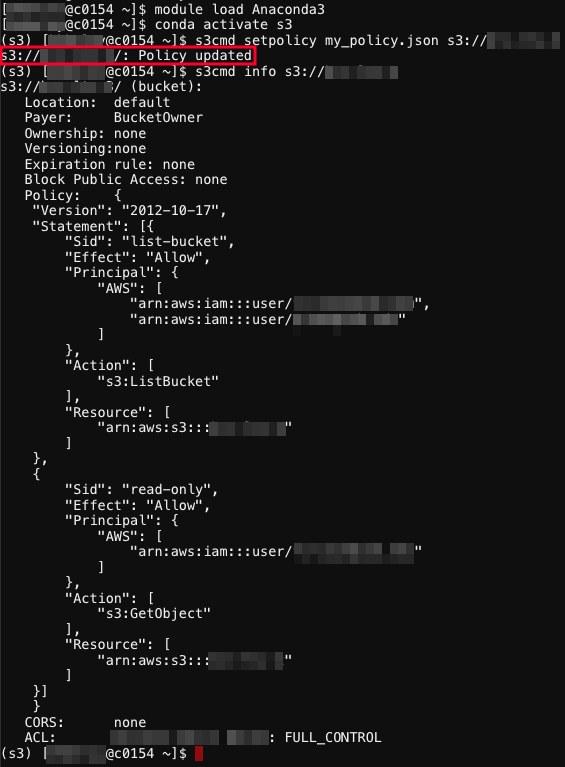
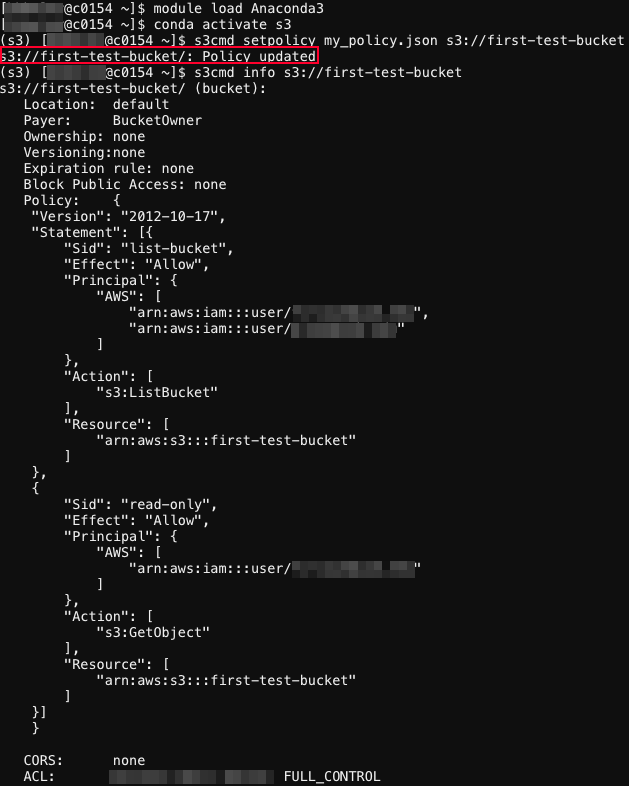
fix typo, figures and formatting

diff --git a/docs/data_management/lts/tutorial/individual_lts_tutorial.md b/docs/data_management/lts/tutorial/individual_lts_tutorial.md
@@ -1,7 +1,7 @@
 ---
 toc_depth: 3
 ---
-# Basic Workflow with Individual LST and s3cmd
+# Basic Workflow with Individual LTS and s3cmd
 
 In this tutorial, we will guide you through using `s3cmd` on the Cheaha system to effectively manage and interact with your individual LTS account. We will cover the installation and configuration of `s3cmd`, and demonstrate essential operations, including creating buckets, listing, copying, downloading, and deleting [buckets and objects](../index.md/#terminology) in your LTS account. In addition, we will show you how to set and manage read and write access for other accounts to your LTS buckets and objects.
 
@@ -9,9 +9,9 @@ In this tutorial, we will guide you through using `s3cmd` on the Cheaha system t
 
 ### Install s3cmd within Anaconda Environment on Cheaha
 
-To interact with LTS using S3, you need the `s3cmd` tool installed. It is recommended to install it using `pip` within an Anaconda environment on Cheaha. Please avoid using `conda install s3cmd`, as that version may not work as expected. Instead, follow the below steps to install `s3cmd` using `pip`.
+To interact with LTS using S3, you need the `s3cmd` tool installed. It is recommended to install it using `pip` within an Anaconda environment on Cheaha. Please avoid using `conda install s3cmd`, as that version will not work as expected. Instead, follow the below steps to install `s3cmd` using `pip`.
 
-First, access our interactive Open OnDemand (OOD) portal at [https://rc.uab.edu](https://rc.uab.edu) and create a job  on Cheaha using one of our interactive applications. For guidance, refer to our tutorial on [installing and setting anaconda environment](../../../cheaha/tutorial/pytorch_tensorflow.md/#installing-anaconda-environments-using-terminal).
+First, access our interactive Open OnDemand (OOD) portal at [https://rc.uab.edu](https://rc.uab.edu) and create a job on Cheaha using one of our interactive applications. For guidance, refer to our tutorial on [installing and setting anaconda environment](../../../cheaha/tutorial/pytorch_tensorflow.md/#installing-anaconda-environments-using-terminal).
 
 Once your interactive apps session is launched, open the terminal as described in [step 5 of the Anaconda tutorial page](../../../cheaha/tutorial/pytorch_tensorflow.md/#installing-anaconda-environments-using-terminal) and run the below commands.
 
@@ -50,53 +50,56 @@ Once the configuration is complete, `s3cmd` will generate a `.s3cfg` file in you
 
 ### Creating Buckets
 
-Long Term Storage (LTS) services like Amazon S3 uses a specific data organization model based on **buckets** and **objects**. Think of buckets as folders that contain individual pieces of data called objects. Each bucket has a unique name. We have documentation about basic terminology on s3 storage system [here](../index.md/#terminology) and a naming guide for LTS buckets [here](../index.md/#avoiding-duplicate-names-for-buckets).
+Long Term Storage (LTS) services like Amazon S3 uses a specific data organization model based on **buckets** and **objects**. Think of buckets as folders that contain individual pieces of data called objects. Each bucket has a unique name. We have documentation about basic terminology on s3 storage system [here](../index.md/#terminology).
 
 Once you have complete `s3cmd` configuration, you can create new buckets in your individual LTS storage. To create a bucket use a `mb`(make bucket) command:
 
 ```bash
-s3cmd mb s3://your_bucket_name
+s3cmd mb s3://your-bucket-name
 ```
 
-Please replace `your_bucket_name` with your desired name. This command creates a new bucket that you named `your_bucket_name` in your LTS storage using the currently configured `s3cmd` profile.
-
-The image below shows the LTS bucket created successfully after running the command.
+Please replace `your-bucket-name` with your desired name. This command creates a new bucket that you named `your-bucket-name` in your LTS storage using the currently configured `s3cmd` profile. For example, the image below shows an LTS bucket named `first-test-bucket` that was created successfully after running the command `s3cmd mb s3://first-test-bucket`.
 
 ![image-bucket](../images/create-bucket.png)
+
+Bucket names must be unique across all LTS, we have detailed information about bucket naming [here](../index.md/#avoiding-duplicate-names-for-buckets). If you try to create a bucket with `s3cmd mb` and the name is taken in another namespace, you will see an `S3 error: 409 (BucketAlreadyExists)`. However, if the name is already in use within your own namespace, `s3cmd mb` might not show an error and could falsely indicate that the bucket is created. Even if no error appears, the bucket won’t actually be created if the name is already taken. To avoid confusion and ensure you create a unique bucket within your own namespace, you can use `s3cmd ls` to check existing buckets and choose a different name.
 
 ### Managing Buckets
 
 To manage a bucket, various commands can be used. Below are some common `s3cmd` commands to interact with your LTS bucket and its objects:
 
-- To **lists all buckets** accessible with your current `s3cmd` profile, use command: `s3cmd ls`.
-- To **lists all files in a bucket** accessible with your current `s3cmd` profile, use command: `s3cmd ls s3://your_bucket_name`.
-- To **upload a file**  named `file.txt` to a bucket, use a command: `s3cmd put file.txt s3://your_bucket_name/`.
-- To **download a file** a file named `file.txt` from a bucket, use a command:`s3cmd get s3://your_bucket_name/file.txt`.
-- To **delete/remove** a bucket, use command: `s3cmd rb s3://your_bucket_name`.
-
-You can find a variety of `s3cmd` commands in our documentation at [here](../../lts/interfaces.md/#s3cmd-commands) and on the [S3tools website](https://s3tools.org/usage). For quick reference, you can also use the `s3cmd --help` command to view available options directly in your terminal.
-
-If you are continuing in the same session with your **conda environment already activated**, you can directly use the `s3cmd` commands. If you are starting a new session or returning at a later date, make sure to load the Anaconda module and activate your conda environment before using `s3cmd`.
+- To **list all buckets** with your current `s3cmd` profile, use command: `s3cmd ls`.
+- To **list all objects in a bucket** with your current `s3cmd` profile, use command: `s3cmd ls s3://your-bucket-name`.
+- To **upload a file**  named `file.txt` to a bucket, use a command: `s3cmd put file.txt s3://your-bucket-name/`.
+- To **download an object** named `file.txt` from a bucket, use a command:`s3cmd get s3://your-bucket-name/file.txt`.
+- To **delete/remove** an object, use command: `s3cmd del s3://your-bucket-name/your-object-name`.
+- To **delete/remove** a bucket, use command: `s3cmd rb s3://your-bucket-name`.
 
 <!-- markdownlint-disable MD046 -->
 !!! Note
 
-    An S3 bucket cannot be deleted unless it is completely empty. If the bucket contains any objects, `s3cmd` will return an error, like `S3 error: 409 (BucketNotEmpty)` when you attempt to delete it. To remove all objects within the bucket, use: `s3cmd del -r s3://your_bucket_name`. You can then remove the bucket itself with: `s3cmd rb s3://your_bucket_name`.
+    An S3 bucket cannot be deleted unless it is completely empty. If the bucket contains any objects, `s3cmd rb` will report an error, like `S3 error: 409 (BucketNotEmpty)` when you attempt to delete it. To remove all objects within the bucket, use: `s3cmd del -r s3://your-bucket-name --force`. You can then remove the bucket itself with: `s3cmd rb s3://your-bucket-name`.
 <!-- markdownlint-disable MD046 -->
 
 <!-- markdownlint-disable MD046 -->
 !!! danger
 
-    Be cautious when deleting buckets, as this action is permanent and will remove all data within the bucket. Once data is deleted from LTS, it cannot be recovered.
+    Deleting objects and buckets cannot be undone. Once the delete command is entered, any data is lost permanently and cannot be restored.
 <!-- markdownlint-enable MD046 -->
+
+You can find a variety of `s3cmd` commands in our documentation at [here](../../lts/interfaces.md/#s3cmd-commands) and on the [S3tools website](https://s3tools.org/usage). For quick reference, you can also use the `s3cmd --help` command to view available options directly in your terminal.
+
+If you are continuing in the same session with your **conda environment already activated**, you can directly use the `s3cmd` commands. If you are starting a new session or returning at a later date, make sure to load the Anaconda module and activate your conda environment before using `s3cmd`.
 
 ### How to Grant Access to Other Accounts for your Buckets?
 
 Managing access to your buckets is essential for both collaboration and security. By setting up specific policies, you can control who can view or modify your bucket’s contents. Follow these steps to grant access:
 
 - Create a policy file: define a policy and save it as a `JSON` file. For guidance and details on creating and formatting policy files, refer to our [create a policy structure guide](../../lts/policies/#policy-structure). For example, you might create a policy file named `my_policy.json` with read permissions.
-- Apply the policy: Use the command like `s3cmd setpolicy policy_file.json s3://your_bucket_name` to apply your defined read policy to your bucket. Replace `policy_file.json` with the path to your policy file and `your_bucket_name` with the name of your bucket.
-- Verify the policy update: After applying the policy, you should see a `Policy updated` message if the operation was successful. You can also verify the applied policy by running: `s3cmd info s3://your_bucket_name`.
+- Apply the policy: Use the command like `s3cmd setpolicy policy_file.json s3://your-bucket-name` to apply your defined read policy to your bucket. Replace `policy_file.json` with the name of your policy file and `your-bucket-name` with the name of your bucket.
+- Verify the policy update: After applying the policy, you should see a `Policy updated` message if the operation was successful. You can also verify the applied policy by running: `s3cmd info s3://your-bucket-name`.
+
+Below is a screenshot showing how to apply a policy file named `my_policy.json` to a bucket named `first-test-bucket`, and the command to view information about this bucket, including the policy file that we defined and applied.
 
 ![policy-image](../images/policy.png)
 
@@ -108,6 +111,6 @@ Please note that the permissions granted are determined by the settings defined 
 
 - **Read/Write Access**
 
-    To grant another account the ability to both view and modify the contents of your bucket, use the [read/write permissions policy.](../policies.md/#read-write-permissions).
+    To grant another account the ability to both view and modify the contents of your bucket, use the [read/write permissions policy](../policies.md/#read-write-permissions).
 
 For detailed information on LTS bucket policies and instructions on how to apply and remove bucket policies, please refer to our  [policy structure](../../lts/policies/#policy-structure) and [apply bucket policy](../policies.md#applying-a-policy) guides.

diff --git a/docs/data_management/lts/tutorial/index.md b/docs/data_management/lts/tutorial/index.md
@@ -1,7 +1,7 @@
 ---
 toc_depth: 3
 ---
-# LST and S3 Basic Tutorial
+# LTS and S3 Basic Tutorial
 
 Effective data management and sharing are essential for maintaining data integrity and facilitating collaboration in research. UAB’s Long-Term Storage (LTS) offers a robust solution for securely archiving data that may not be actively used but remains crucial for future research and compliance. The `s3cmd` command-line tool complements this by enabling efficient management and transfer of files to and from LTS.
 
